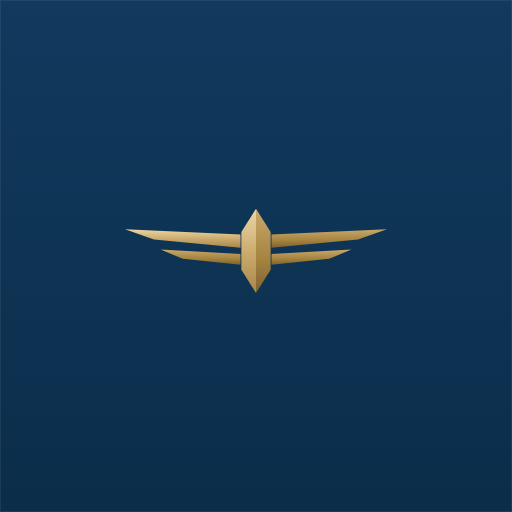
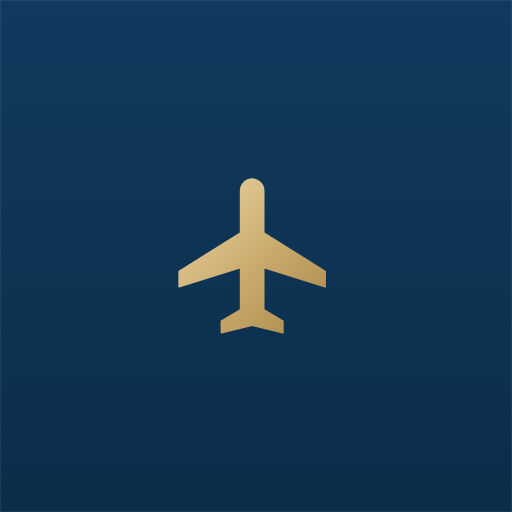
Drop the OPTISKY emblem and tagline; keep only the house style
AEROBOOK runs alongside OPTISKY as its own product: it shares the palette
and Montserrat, but not OPTISKY's winged emblem or tagline.

- The logo is now the spaced "AEROBOOK" wordmark alone (app bar,
  Settings, splash, sign-in); the emblem asset and Lockup are removed.
- Home-screen icons go back to AEROBOOK's own jet, now gold on navy. Fixes
  the icon gradient being sized to the tile rather than the plane, which
  washed the jet out to its palest stop.

Claude-Session: https://claude.ai/code/session_01MWnMu63mKZsCN4kFfSZxa6

Changed region(s): [[0.25, 0.3438, 0.75, 0.6562]]

diff --git a/src/components/Brand.tsx b/src/components/Brand.tsx
@@ -1,45 +1,16 @@
 /**
- * The AEROBOOK brand: the winged emblem, the wordmark, and the owner's
- * signature.
+ * The AEROBOOK brand: the wordmark and the owner's signature.
  *
- * `Mark` is the gold emblem (`public/brand/mark.svg`, generated by
- * `npm run brand` — never hand-edited). It carries its own gold, so it is an
- * image rather than a mask and looks the same in both themes, as on the
- * brand sheet. `Lockup` pairs it with the spaced Montserrat wordmark, either
- * side by side (app bar, Settings) or stacked with the tagline (splash).
- * `Signature` is the full hand, used only where there is room for it to
- * actually read as a signature: the quiet sign-off at the foot of the
- * dashboard.
- *
- * The emblem and signature are decorative — screen readers skip them and
- * read the wordmark beside them instead.
+ * AEROBOOK shares its house style — palette and Montserrat — with OPTISKY,
+ * but is its own product, so it carries no emblem or tagline of OPTISKY's.
+ * `Wordmark` is the widely spaced name, inline (app bar, Settings) or large
+ * and centred (splash, sign-in). `Signature` is the owner's full hand, used
+ * only where there is room for it to actually read as a signature: the
+ * quiet sign-off at the foot of the dashboard. It is decorative — screen
+ * readers skip it and read the wordmark beside it instead.
  */
-export const TAGLINE = 'Turnkey solutions for the sky';
-
-export function Mark({ size = 36, className = '' }: { size?: number; className?: string }) {
-  return (
-    <img
-      className={`mark ${className}`.trim()}
-      src="/brand/mark.svg"
-      alt=""
-      aria-hidden="true"
-      width={size}
-      height={size / 3}
-      draggable={false}
-    />
-  );
-}
-
-export function Lockup({ stacked = false, tagline = stacked }: { stacked?: boolean; tagline?: boolean }) {
-  return (
-    <span className={`lockup ${stacked ? 'lockup--stacked' : ''}`.trim()}>
-      <Mark size={stacked ? 132 : 36} />
-      <span className="lockup__text">
-        <span className="lockup__wordmark">AEROBOOK</span>
-        {tagline ? <span className="lockup__tagline">{TAGLINE}</span> : null}
-      </span>
-    </span>
-  );
+export function Wordmark({ large = false }: { large?: boolean }) {
+  return <span className={`wordmark ${large ? 'wordmark--large' : ''}`.trim()}>AEROBOOK</span>;
 }
 
 function Signature({ width, className = '' }: { width?: number; className?: string }) {

diff --git a/src/styles/global.css b/src/styles/global.css
@@ -625,18 +625,10 @@ button, input, select, textarea {
 /* ----------------------------------------------------------------- brand */
 
 /*
- * The emblem is a full-colour image; the signature is a mask so it takes the
- * surrounding text colour and works in both themes from one asset. Both are
- * decorative, so both are hidden from assistive technology wherever they
- * appear.
+ * The owner's signature, used as a mask so it takes the surrounding text
+ * colour and works in both themes from one asset. Decorative, so hidden from
+ * assistive technology wherever it appears.
  */
-.mark {
-  display: block;
-  height: auto;
-  flex: none;
-  user-select: none;
-}
-
 .signature {
   --signature-width: 180px;
   width: var(--signature-width);
@@ -660,28 +652,8 @@ button, input, select, textarea {
   min-width: 0;
 }
 
-/*
- * Emblem + wordmark. Side by side, a hairline rule separates the two as on
- * the brand sheet's horizontal logo; stacked, the tagline sits under the
- * wordmark in gold.
- */
-.lockup {
-  display: inline-flex;
-  align-items: center;
-  gap: 11px;
-  min-width: 0;
-}
-
-.lockup__text {
-  display: flex;
-  flex-direction: column;
-  gap: 3px;
-  min-width: 0;
-  padding-left: 11px;
-  border-left: 1px solid var(--border-strong);
-}
-
-.lockup__wordmark {
+/* The spaced Montserrat name — the whole logo. */
+.wordmark {
   font-size: 15px;
   font-weight: 560;
   letter-spacing: 0.3em;
@@ -689,32 +661,10 @@ button, input, select, textarea {
   color: var(--text);
   /* The tracking trails the last letter; pull it back so the word centres. */
   margin-right: -0.3em;
-}
-
-.lockup__tagline {
-  font-size: 8.5px;
-  font-weight: 560;
-  letter-spacing: 0.24em;
-  text-transform: uppercase;
-  color: var(--accent);
   white-space: nowrap;
 }
 
-.lockup--stacked {
-  flex-direction: column;
-  gap: 22px;
-  text-align: center;
-}
-
-.lockup--stacked .lockup__text {
-  align-items: center;
-  gap: 10px;
-  padding-left: 0;
-  border-left: 0;
-}
-
-.lockup--stacked .lockup__wordmark { font-size: 30px; font-weight: 500; }
-.lockup--stacked .lockup__tagline { font-size: 11px; margin-right: -0.24em; }
+.wordmark--large { font-size: 30px; font-weight: 500; }
 
 .colophon {
   display: flex;

diff --git a/src/screens/Settings.tsx b/src/screens/Settings.tsx
@@ -4,7 +4,7 @@ import { Link } from 'react-router-dom';
 import { AppBar } from '../components/AppBar';
 import { IconClock, IconDownload, IconMail, IconTools, IconUpload } from '../components/Icons';
 import { Banner, ConfirmButton, KeyValue, SelectField, TextField, useToast } from '../components/ui';
-import { Lockup } from '../components/Brand';
+import { Wordmark } from '../components/Brand';
 import { LocalDataBanner } from '../components/localData';
 import { AccountSection, TeamSection } from '../components/team';
 import { useCurrentUser } from '../data/session';
@@ -231,7 +231,7 @@ export default function Settings() {
             </>
           ) : null}
           <div className="card small muted stack stack--sm">
-            <Lockup tagline />
+            <Wordmark />
             <div>A personal CRM for aircraft brokerage and aviation insurance.</div>
             <div>
               AEROBOOK does not send email. It prepares a message and hands it to your mail client; the activity it

diff --git a/src/App.tsx b/src/App.tsx
@@ -2,7 +2,7 @@ import { useEffect } from 'react';
 import { NavLink, Route, Routes, useLocation, useNavigate } from 'react-router-dom';
 
 import { ToastProvider, useToast } from './components/ui';
-import { Lockup } from './components/Brand';
+import { Wordmark } from './components/Brand';
 import { IconBell, IconHome, IconPlane, IconSettings, IconUsers } from './components/Icons';
 import { useDatabase, useLoaded, useSaveError } from './data/useStore';
 import { onNotice } from './data/store';
@@ -143,7 +143,7 @@ function Shell() {
         ) : (
           <div className="page">
             <div className="splash">
-              <Lockup stacked />
+              <Wordmark large />
             </div>
           </div>
         )}

diff --git a/src/screens/SignIn.tsx b/src/screens/SignIn.tsx
@@ -1,6 +1,6 @@
 import { useState, type FormEvent } from 'react';
 
-import { Lockup } from '../components/Brand';
+import { Wordmark } from '../components/Brand';
 import { Banner, TextField } from '../components/ui';
 import * as auth from '../data/auth';
 import { useSession } from '../data/session';
@@ -15,7 +15,7 @@ export default function SignIn() {
   return (
     <main className="page signin">
       <div className="signin__brand">
-        <Lockup stacked />
+        <Wordmark large />
       </div>
       {session.status === 'checking' ? null
         : session.status === 'setup' ? <SetUp />

diff --git a/src/components/AppBar.tsx b/src/components/AppBar.tsx
@@ -1,7 +1,7 @@
 import type { ReactNode } from 'react';
 import { Link, useNavigate } from 'react-router-dom';
 import { IconChevronLeft, IconSearch } from './Icons';
-import { Lockup } from './Brand';
+import { Wordmark } from './Brand';
 
 export function AppBar({
   title,
@@ -30,7 +30,7 @@ export function AppBar({
       ) : null}
       {wordmark ? (
         <span className="appbar__brand grow">
-          <Lockup />
+          <Wordmark />
         </span>
       ) : (
         <h1 className="appbar__title">{title}</h1>

diff --git a/README.md b/README.md
@@ -226,30 +226,32 @@ became `Lost` — which is how every query already treated it — and the ambigu
 
 ## Brand
 
+AEROBOOK is its own product, dressed in the same house style as OPTISKY —
+the palette and typeface below — but it carries no OPTISKY emblem or
+tagline.
+
 | Colour | Hex | Use |
 | --- | --- | --- |
 | Navy | `#0B2D4A` | dark-mode surfaces, light-mode text, icon tile |
 | Slate | `#5B6770` | secondary text |
-| Gold | `#C9A96B` | the emblem, the one accent colour, the tagline |
+| Gold | `#C9A96B` | the one accent colour, the icon's jet |
 | Ivory | `#F7F7F5` | light-mode paper, dark-mode text |
 
 Type is Montserrat (self-hosted via `@fontsource-variable/montserrat`, so it
 works offline). All of it lives as tokens in `src/styles/tokens.css`.
 
-The logo is a winged gold emblem beside a widely spaced "AEROBOOK"
-wordmark — side by side in the app bar and Settings, stacked with the
-tagline "Turnkey solutions for the sky" on the splash screen
-(`src/components/Brand.tsx`). The home-screen icons are the emblem alone on
-the navy tile. The footer sign-off is still the owner's own signature,
-traced from `brand-source/signature.jpg`.
+The logo is the name alone: a widely spaced "AEROBOOK" wordmark
+(`src/components/Brand.tsx`). The home-screen icons are a gold jet on the
+navy tile. The footer sign-off is the owner's own signature, traced from
+`brand-source/signature.jpg`.
 
 ```bash
-npm run brand      # regenerates public/brand/: emblem, icons, signature
+npm run brand      # regenerates public/brand/: icons, signature
 ```
 
-The emblem is drawn from geometry in `scripts/build-brand.mjs`; edit it
-there, never the SVG. The script needs Chromium (icon rendering and the
-signature's ink matting) and `potrace` (the signature trace), neither of
+The icons are drawn from geometry in `scripts/build-brand.mjs`; edit them
+there, never the output files. The script needs Chromium (icon rendering and
+the signature's ink matting) and `potrace` (the signature trace), neither of
 which the normal build touches — outputs are committed.
 
 ## Deployment
